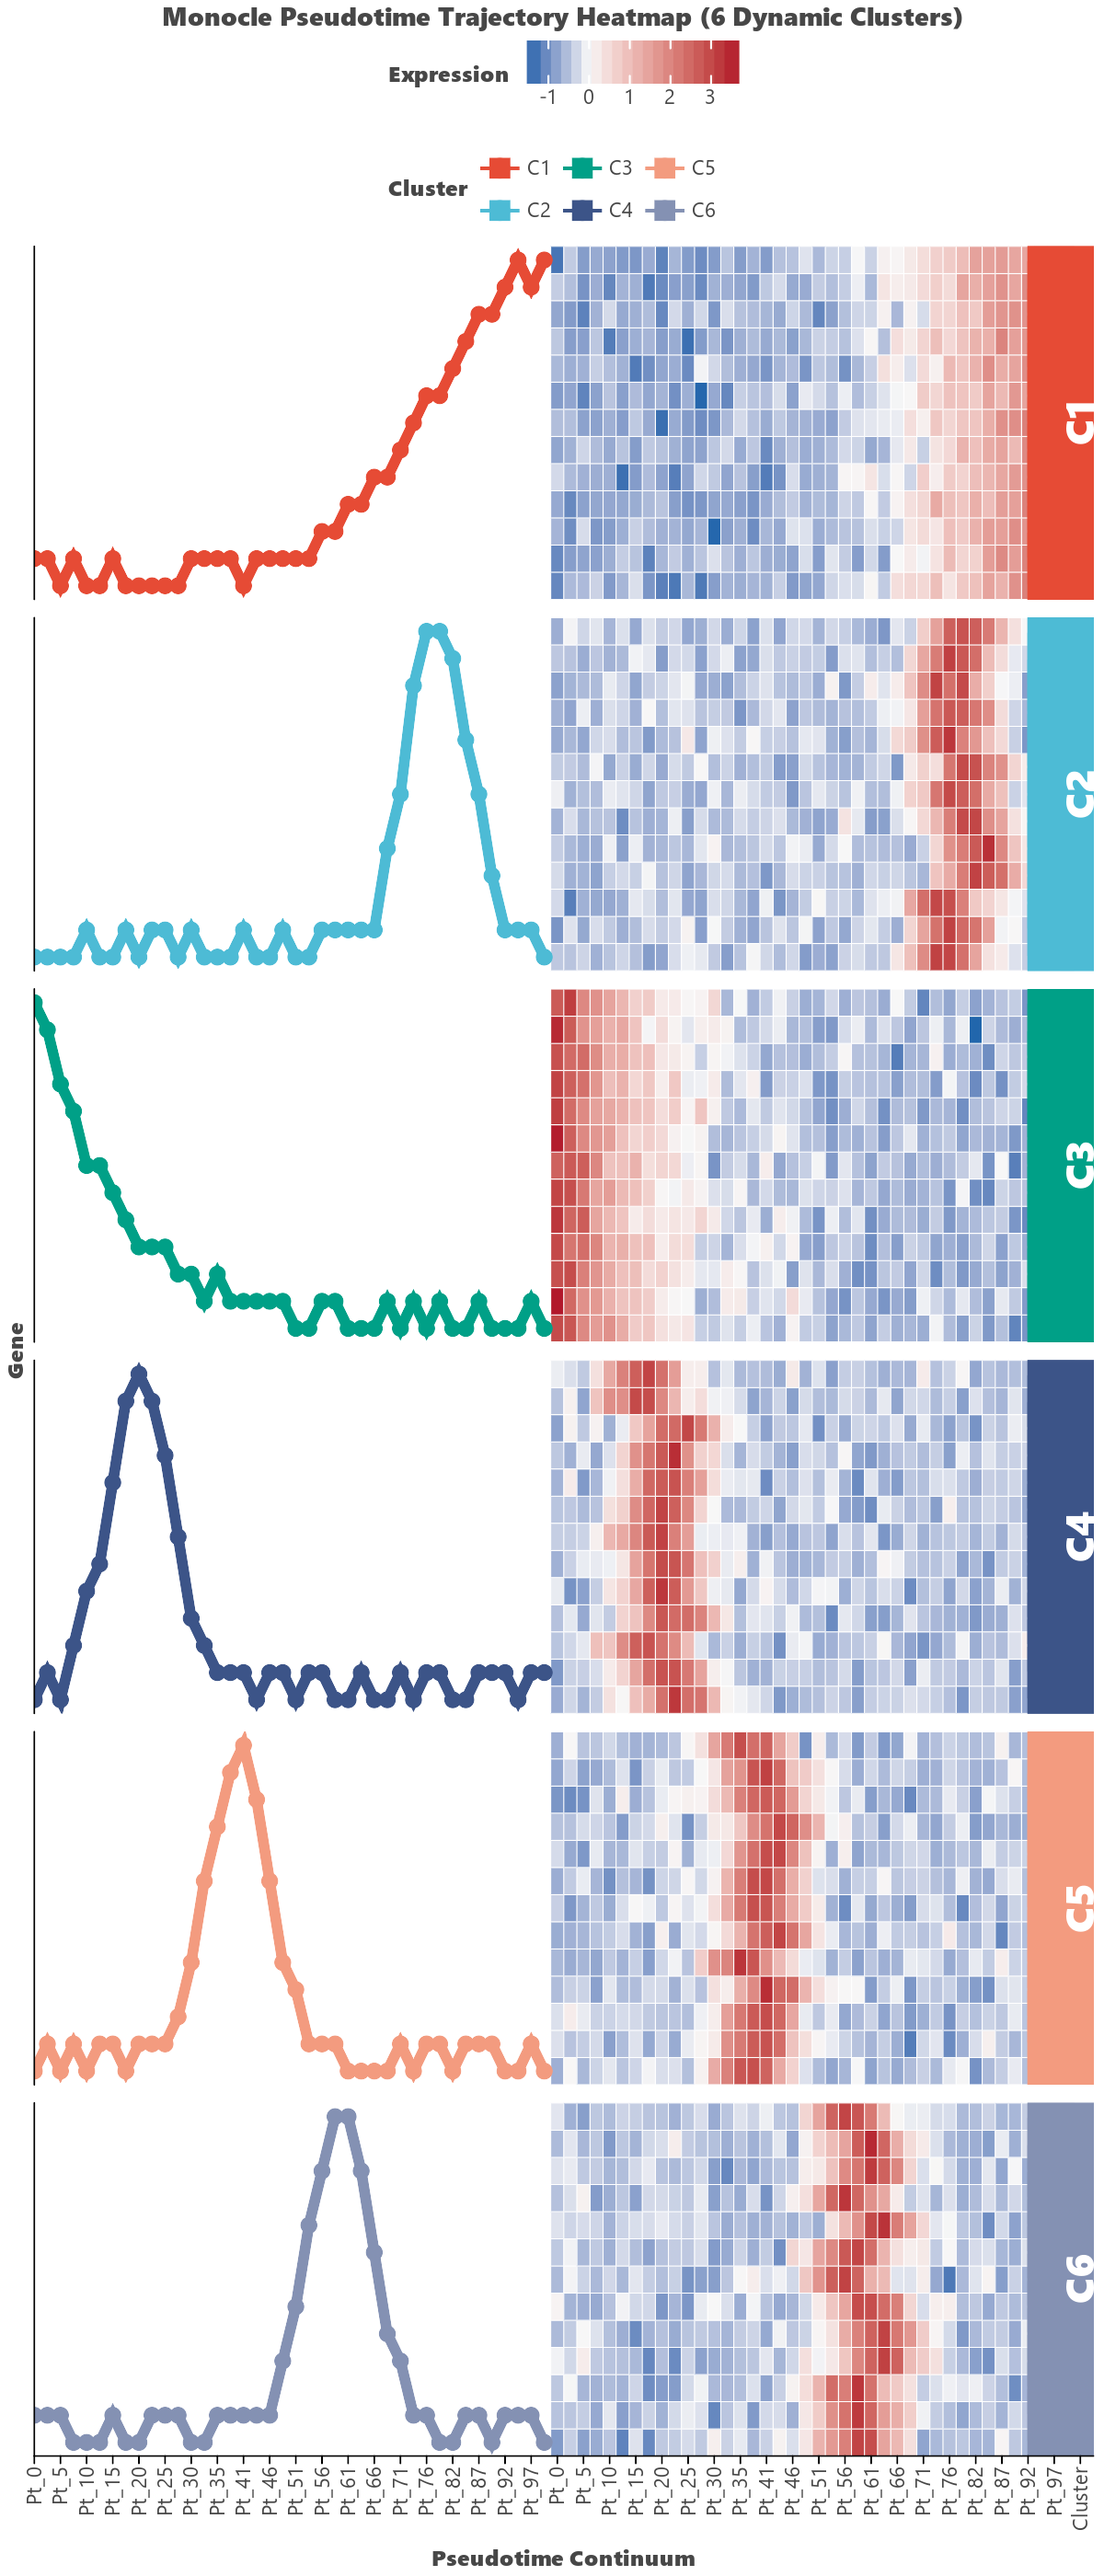
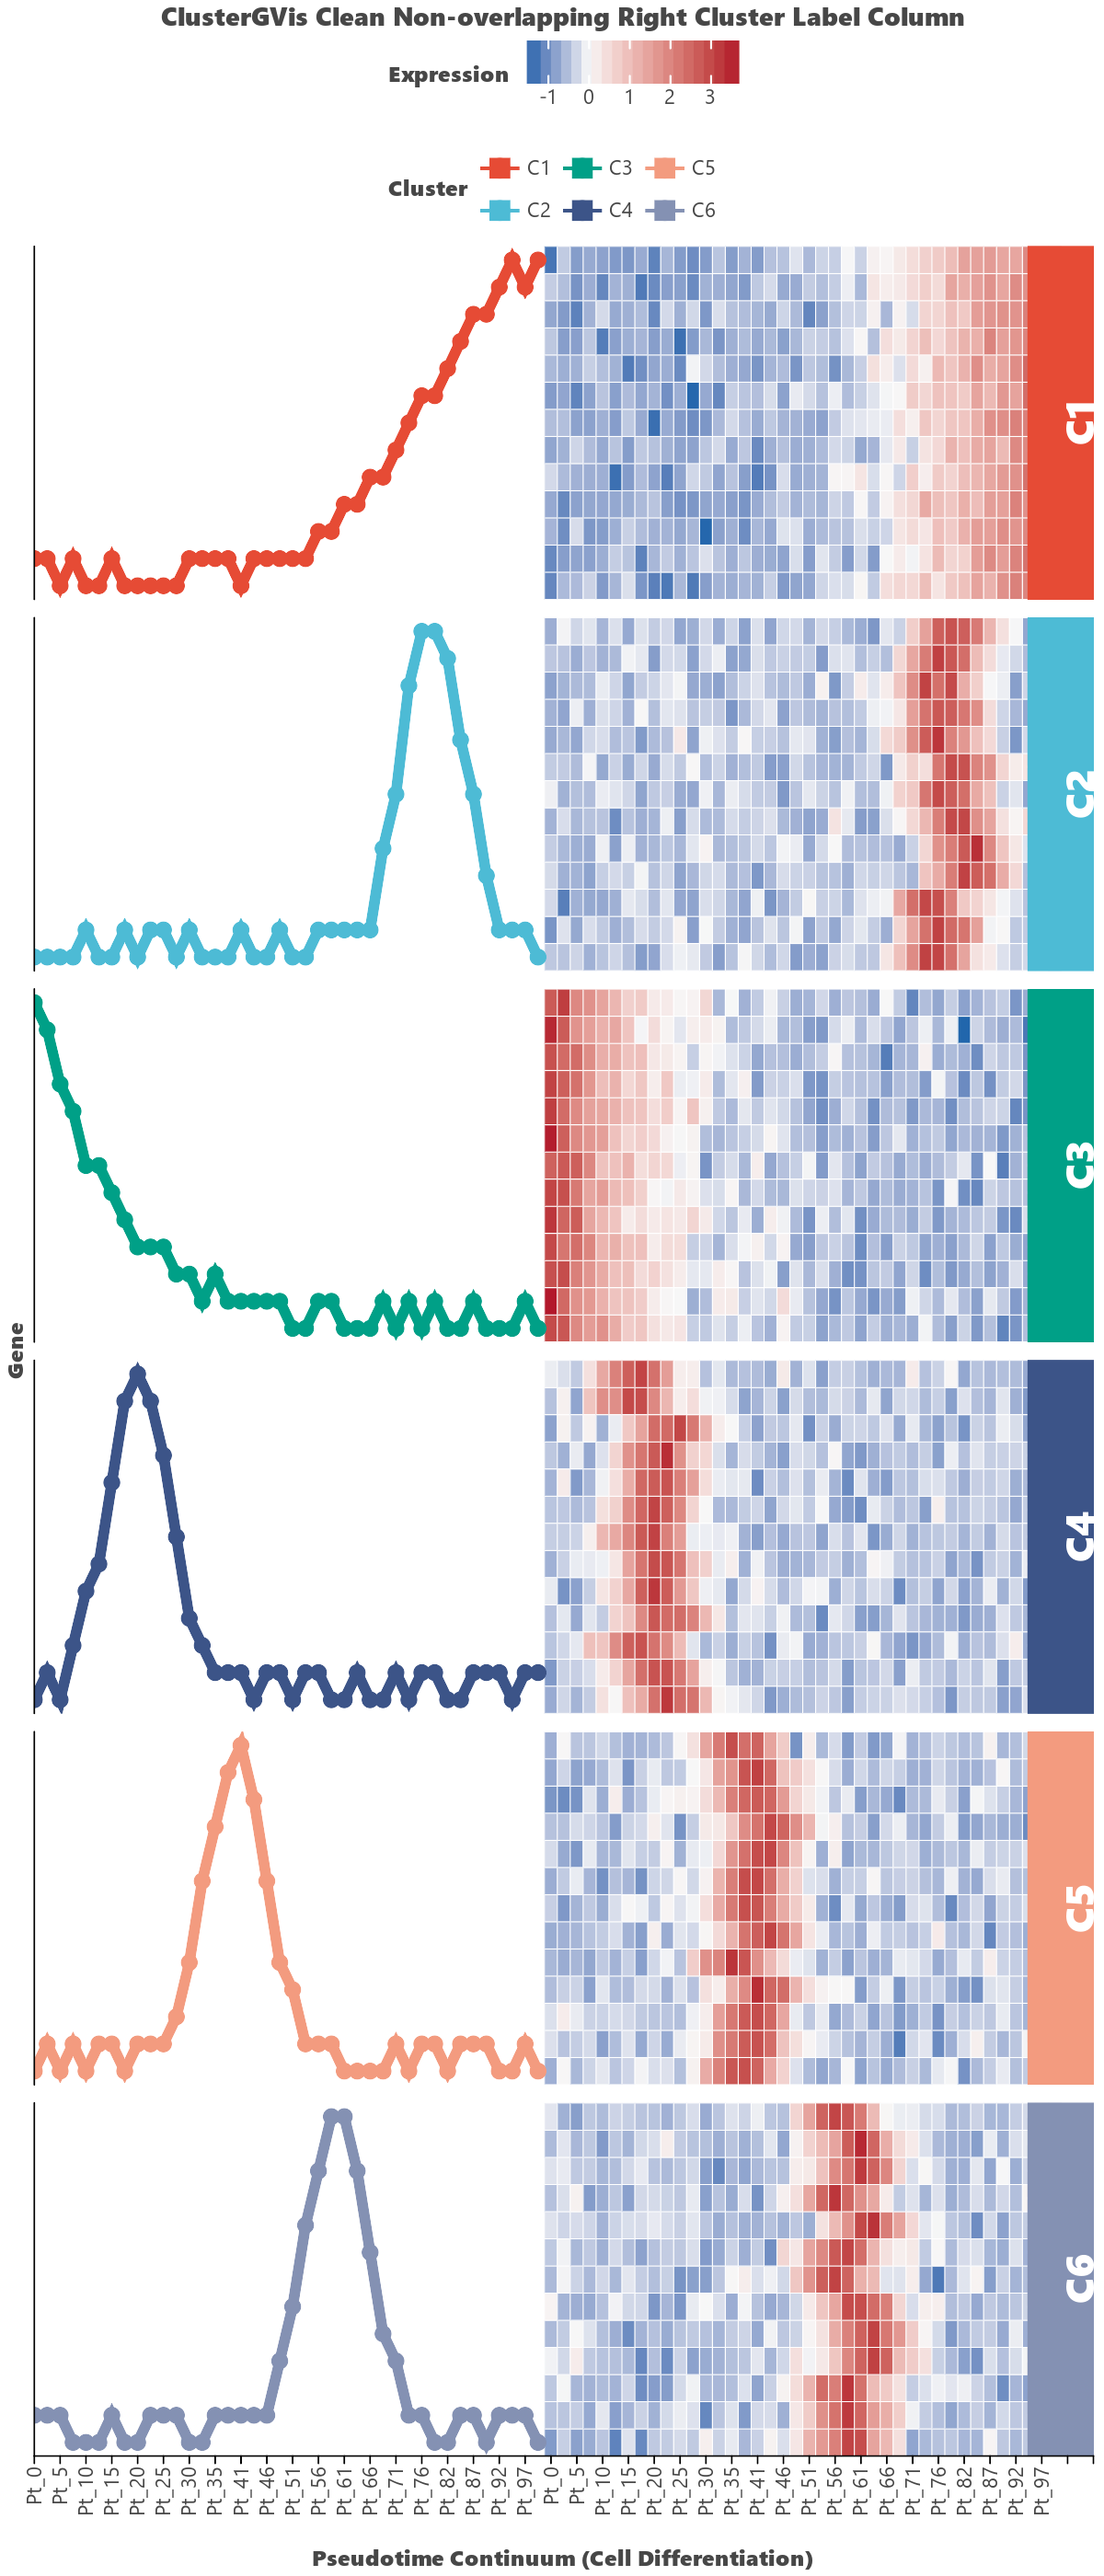
fix: Add clean spacing gap between heatmap tiles and right Cluster label column

diff --git a/src/letspubpy/plots.py b/src/letspubpy/plots.py
@@ -1735,8 +1735,8 @@ def visCluster(data,
         long_heat['Gene'] = pd.Categorical(long_heat['Gene'], categories=df_sorted.index.tolist(), ordered=True)
 
         trend_cols = [f'T_{tp}' for tp in col_names]
-        all_x_limits = trend_cols + col_names + ['Cluster', ' ']
-        x_labels = col_names + col_names + ['Cluster', ' ']
+        all_x_limits = trend_cols + col_names + ['gap_x', 'Cluster', 'end_x']
+        x_labels = col_names + col_names + ['', 'Cluster', '']
 
         long_heat['X_pos'] = long_heat['Timepoint']
 
